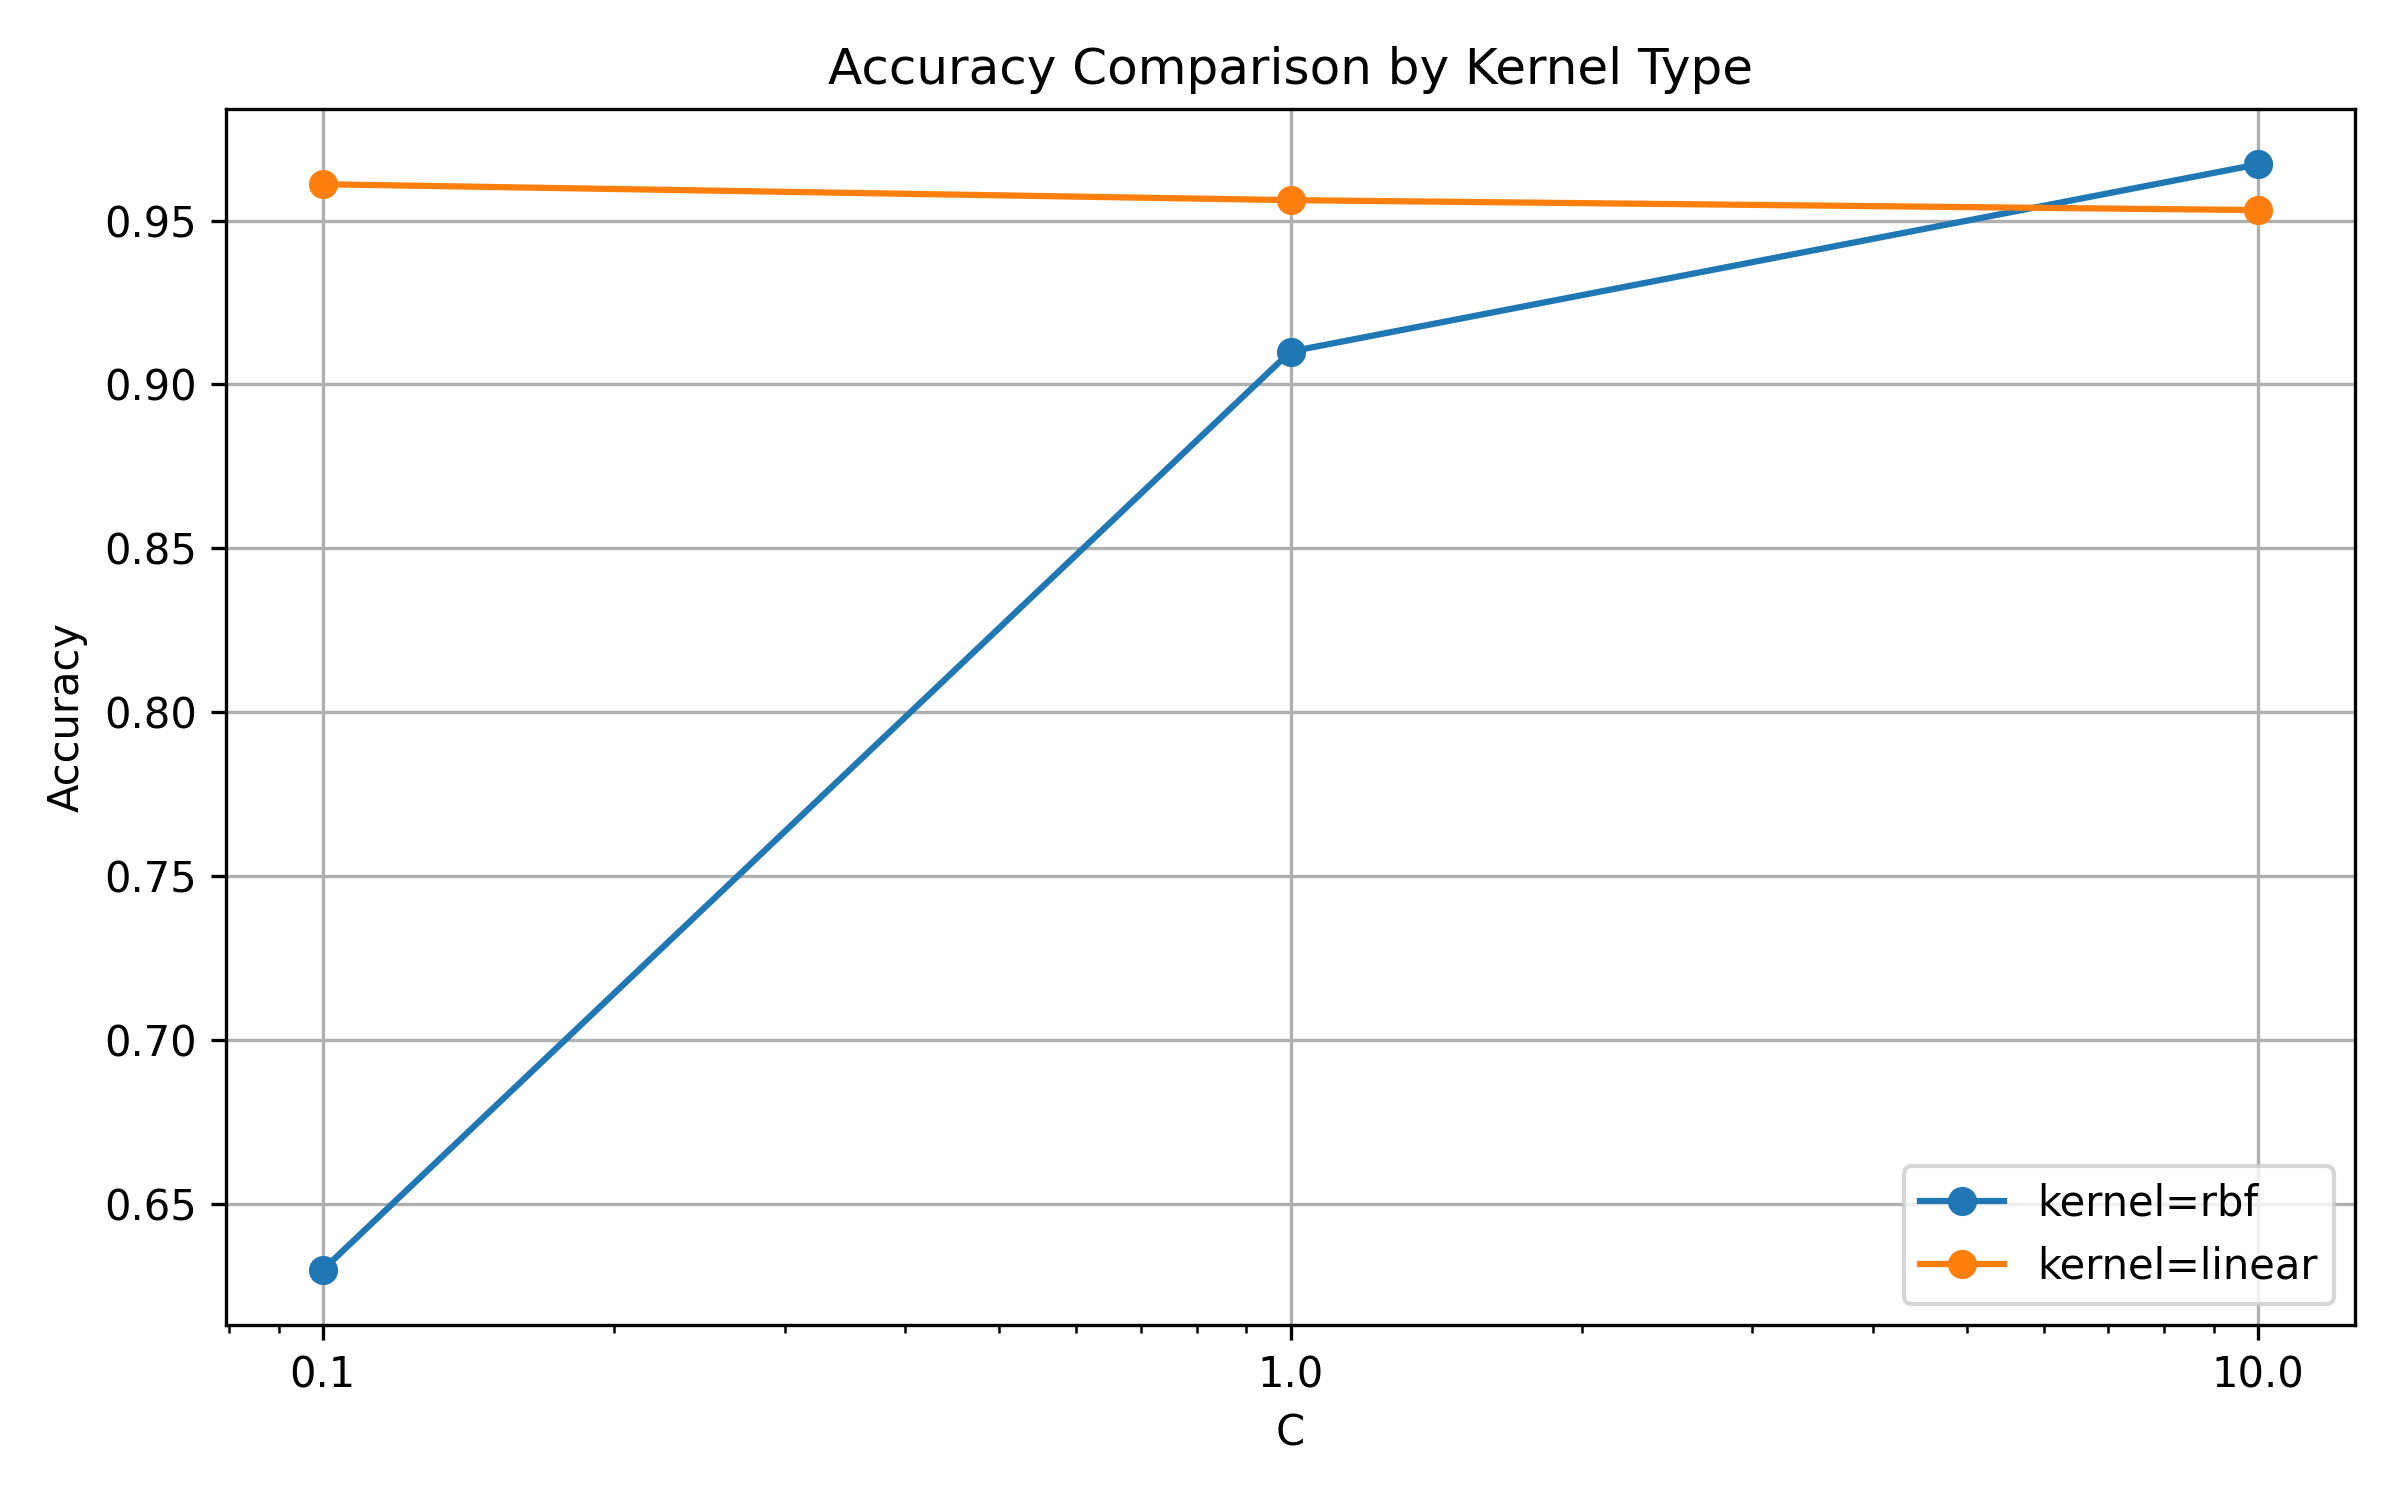
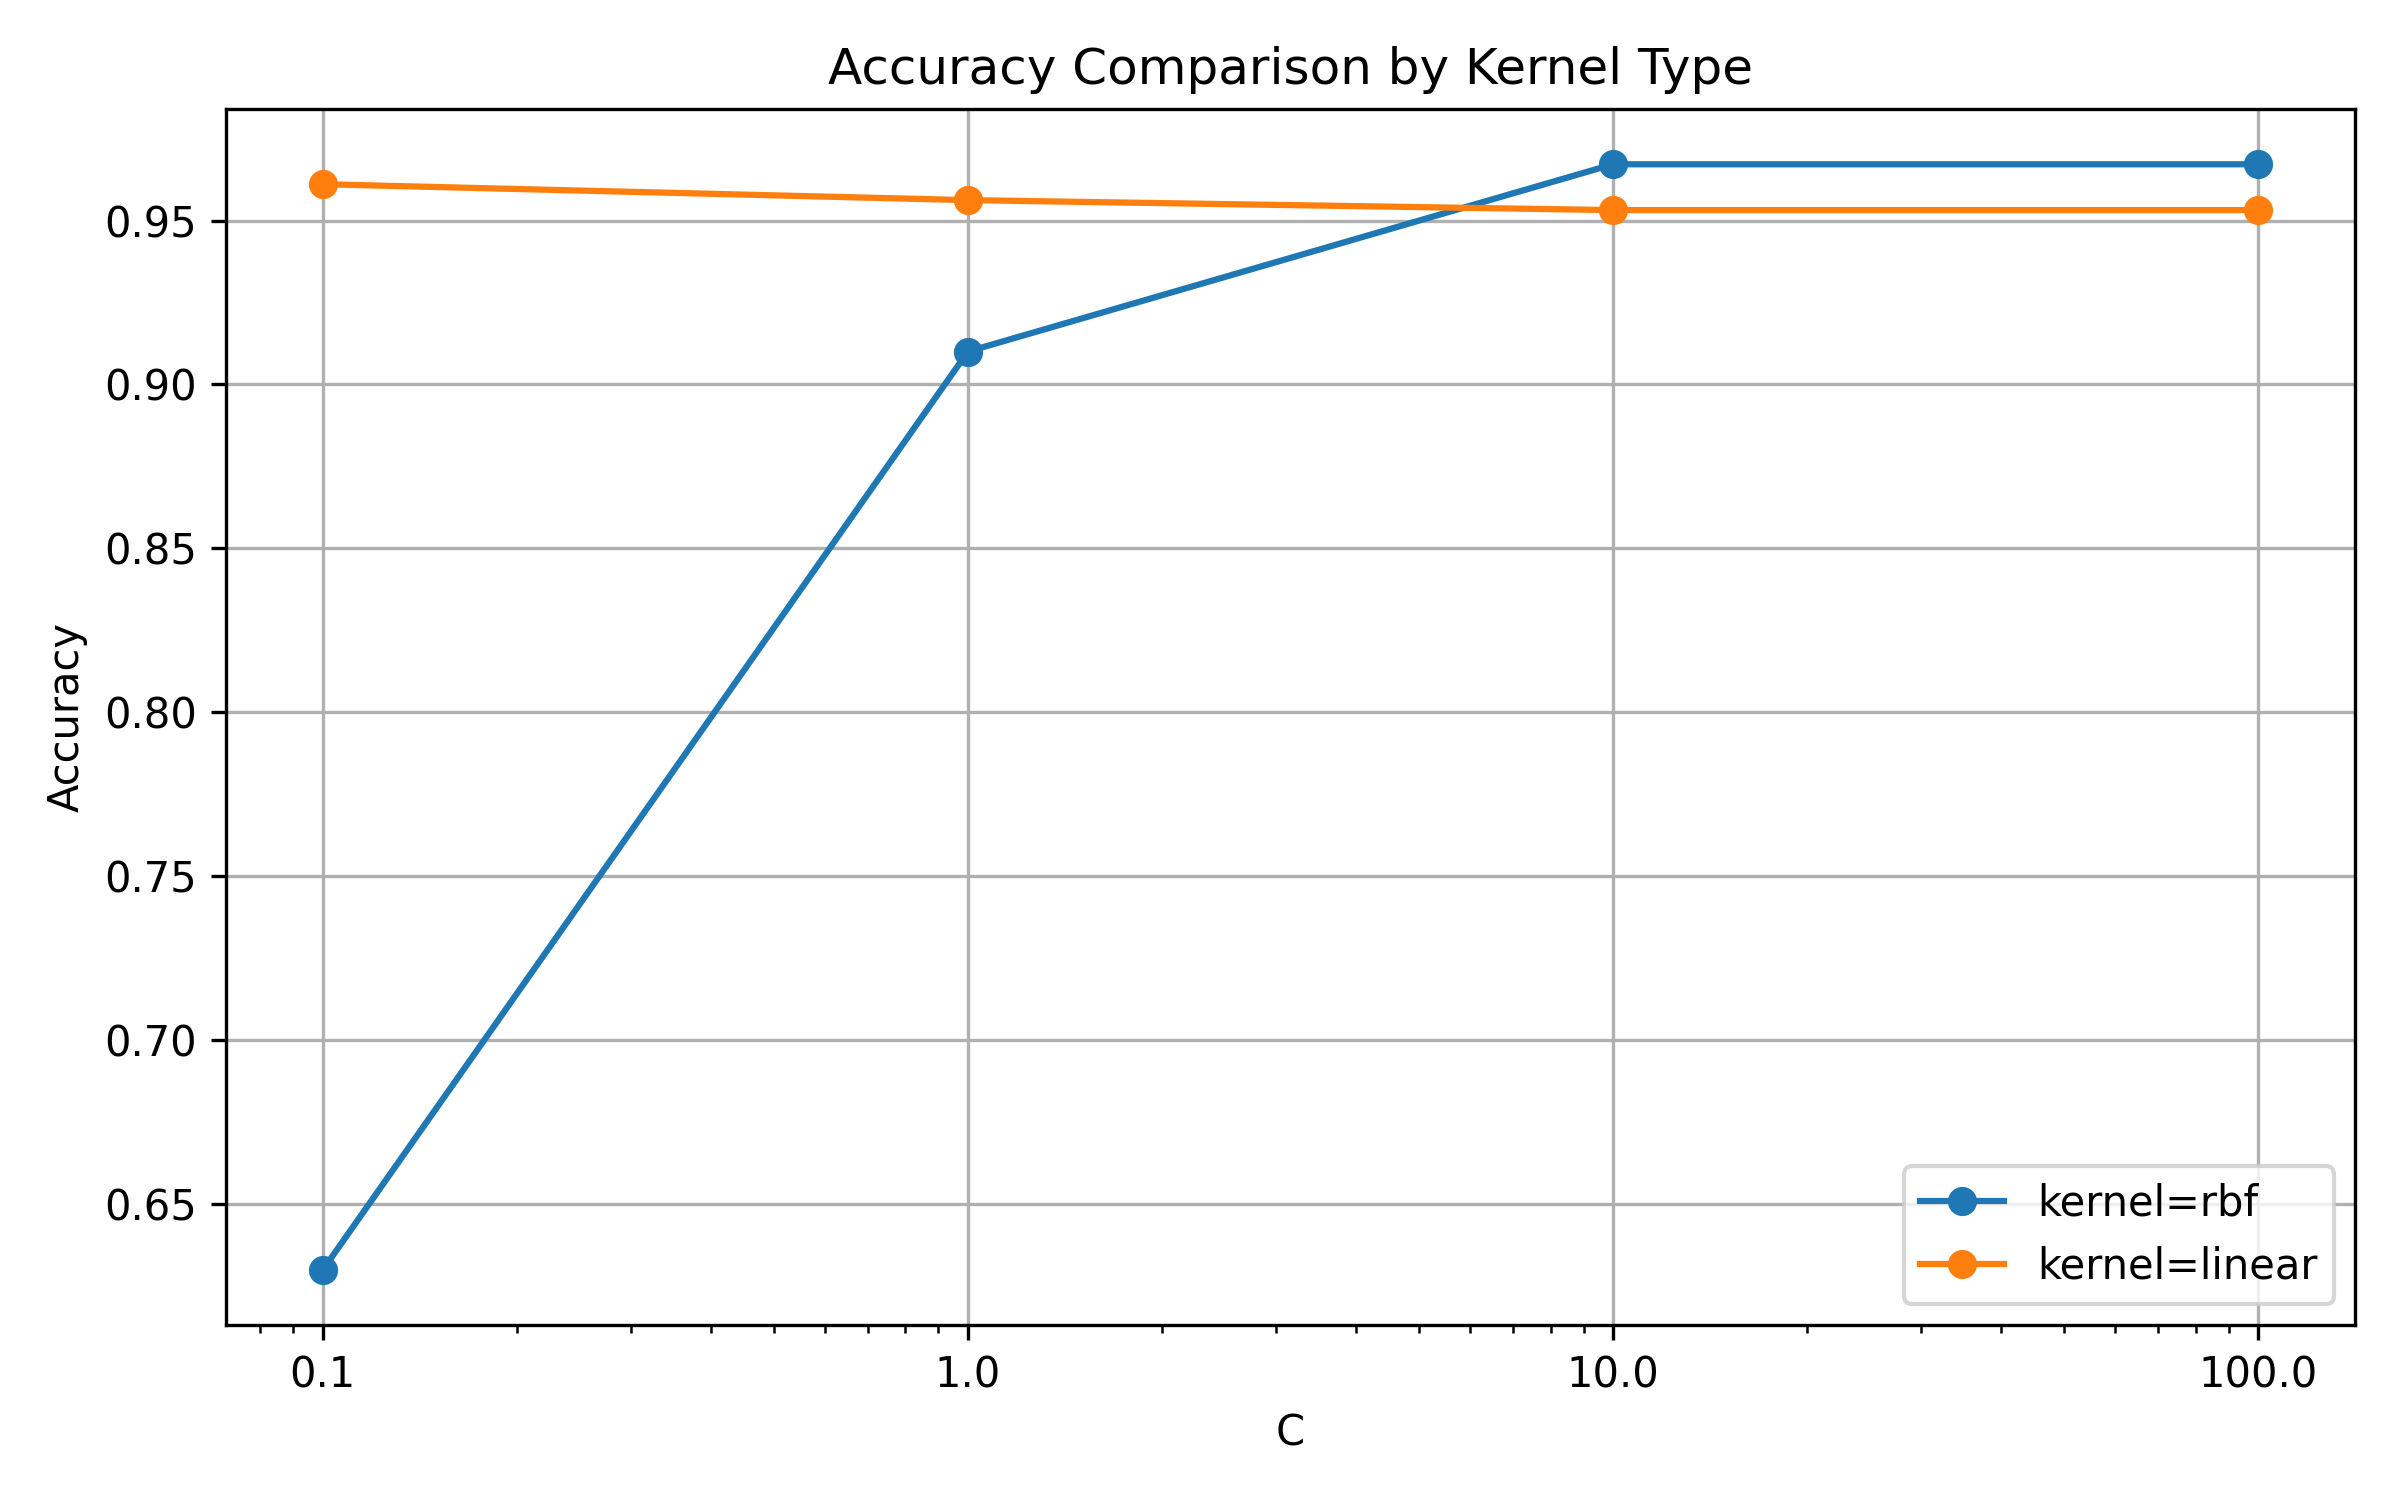
Add final English report and SVM comparison results

diff --git a/Minh_SVM/svm_compare_loop.py b/Minh_SVM/svm_compare_loop.py
@@ -60,13 +60,16 @@ for c in c_list:
 
             end = time.time()
 
+            y_pred_train = svm.predict(X_train)
             y_pred = svm.predict(X_test)
 
+            train_acc = accuracy_score(y_train, y_pred_train)
             acc = accuracy_score(y_test, y_pred)
             f1 = f1_score(y_test, y_pred, average="macro", zero_division=0)
             train_time = end - start
 
-            print("Accuracy:", acc)
+            print("Train Acc:", train_acc)
+            print("Test Acc:", acc)
             print("Macro F1:", f1)
             print("Training time:", round(train_time, 2), "seconds")
 
@@ -74,7 +77,8 @@ for c in c_list:
                 "C": c,
                 "gamma": g,
                 "kernel": k,
-                "accuracy": acc,
+                "train_accuracy": train_acc,
+                "test_accuracy": acc,
                 "macro_f1": f1,
                 "training_time": train_time
             })
@@ -86,7 +90,7 @@ df.to_csv(csv_path, index=False)
 
 print("\nSaved results to:", csv_path)
 
-best = df.sort_values(by="accuracy", ascending=False).iloc[0]
+best = df.sort_values(by="test_accuracy", ascending=False).iloc[0]
 
 print("\nBest configuration:")
 print(best)
@@ -98,11 +102,11 @@ plt.figure(figsize=(8, 5))
 
 for g in gamma_list:
     temp = df[(df["kernel"] == "rbf") & (df["gamma"] == g)]
-    plt.plot(temp["C"], temp["accuracy"], marker="o", label=f"gamma={g}")
+    plt.plot(temp["C"], temp["test_accuracy"], marker="o", label=f"gamma={g}")
 
-plt.title("Accuracy Comparison by C parameter (RBF Kernel)")
+plt.title("Test Accuracy Comparison by C parameter (RBF Kernel)")
 plt.xlabel("C")
-plt.ylabel("Accuracy")
+plt.ylabel("Test Accuracy")
 plt.xscale('log')
 plt.xticks(c_list, [str(c) for c in c_list])
 plt.legend()
@@ -123,7 +127,7 @@ plt.figure(figsize=(8, 5))
 # We fix gamma="scale" to compare kernels across C
 for k in kernel_list:
     temp = df[(df["gamma"] == "scale") & (df["kernel"] == k)]
-    plt.plot(temp["C"], temp["accuracy"], marker="o", label=f"kernel={k}")
+    plt.plot(temp["C"], temp["test_accuracy"], marker="o", label=f"kernel={k}")
 
 plt.title("Accuracy Comparison by Kernel Type")
 plt.xlabel("C")
@@ -163,3 +167,28 @@ plt.savefig(fig_path3, dpi=300)
 plt.close()
 
 print("Saved:", fig_path3)
+
+# ---------------------------------------------------------
+# Chart 4: Compare Train vs Test accuracy (Overfitting Check)
+# ---------------------------------------------------------
+plt.figure(figsize=(8, 5))
+
+# We fix gamma="scale" and kernel="rbf"
+temp = df[(df["gamma"] == "scale") & (df["kernel"] == "rbf")]
+plt.plot(temp["C"], temp["train_accuracy"], marker="o", linestyle="--", label="Train Accuracy")
+plt.plot(temp["C"], temp["test_accuracy"], marker="s", linestyle="-", label="Test Accuracy")
+
+plt.title("Train vs Test Accuracy (Overfitting Check) - RBF Kernel")
+plt.xlabel("C")
+plt.ylabel("Accuracy")
+plt.xscale('log')
+plt.xticks(c_list, [str(c) for c in c_list])
+plt.legend()
+plt.grid(True)
+plt.tight_layout()
+
+fig_path4 = os.path.join(out_dir, "overfitting_check.png")
+plt.savefig(fig_path4, dpi=300)
+plt.close()
+
+print("Saved:", fig_path4)

diff --git a/Minh_SVM/report.md b/Minh_SVM/report.md
@@ -1,0 +1,44 @@
+# Report: Applying SVM for Vietnam Traffic Sign Classification
+
+## 1. Project Overview
+This project aims to build a Machine Learning model using the **Support Vector Machine (SVM)** algorithm to recognize and classify traffic signs in Vietnam (covering 52 distinct classes).
+The implementation process consists of four main phases:
+1. **Data Preprocessing (`create_svm_dataset.py`)**: Cropped traffic signs from original images using bounding box coordinates, applying a 5% padding to retain visual context.
+2. **Feature Extraction (`prepare_svm_features.py`)**: Resized all cropped images to a standard `64x64` resolution and flattened them into a 1D vector of `12,288` features (64 * 64 * 3).
+3. **Model Training (`train_svm.py`)**: 
+   - Established a Baseline model for standard evaluation.
+   - Employed `RandomizedSearchCV` to automatically hunt for the optimal hyperparameters from a massive parameter space.
+4. **Evaluation & Visualization (`svm_compare_loop.py` & `evaluate_svm.py`)**: Conducted an in-depth analysis of 16 different configurations, plotting charts to compare accuracy and training time.
+
+## 2. Hyperparameter Fine-Tuning Insights
+Based on the exhaustive grid search results recorded in `svm_compare_results.csv`, we can draw highly valuable insights regarding SVM characteristics for image processing:
+
+### The Penalty Parameter `C` (Regularization)
+- **When `C` is too small (`C = 0.1`)**: The RBF model suffers from severe "Underfitting" (only reaching ~62.9% Test Accuracy). The model is too simplistic, resulting in decision boundaries that are not sharp enough to separate visually similar traffic signs.
+- **When `C` is moderately increased (`C = 1.0` to `10.0`)**: Accuracy skyrockets to 96.7%. This is the **sweet spot** where the model perfectly balances learning from the training data and generalizing to unseen data.
+- **When `C` is excessively large (`C = 100.0`)**: Clear signs of **Overfitting** emerge. The Train Accuracy maxes out at nearly `1.0` (100%)—meaning the model has essentially memorized the training set—yet the Test Accuracy plateaus at 96.7% without further improvement.
+
+### The `kernel` Parameter (RBF vs. Linear)
+- **Linear Kernel**: Delivers fast convergence and high initial scores (96.1% at C=0.1). However, as C increases, the Linear kernel hits a "glass ceiling" and drops to 95.3% due to rigid overfitting.
+- **RBF Kernel (Radial Basis Function)**: Demonstrates absolute superiority in flexing decision boundaries. At the optimal point (`C=10.0`, `gamma='scale'`), RBF reaches 96.7%, completely outperforming the Linear Kernel.
+
+### The `gamma` Parameter (Radius of Influence)
+- `gamma='scale'` proved to be incredibly effective and stable across all scenarios.
+- Conversely, `gamma='auto'` (which calculates `1/n_features`) is a disaster for our 12,288-dimensional image vectors. It caused the Test Accuracy to plummet to a mere `6.8%` at C=0.1, indicating that the influence radius of each data point became practically invisible, leaving the SVM completely directionless.
+
+## 3. The Final Fine-Tuned Configuration & Results
+Through rigorous `RandomizedSearchCV` iterations and manual grid comparison, we successfully identified the absolute **BEST configuration** for this dataset:
+
+*   **Kernel**: **`rbf`**
+*   **C (Regularization)**: **`10.0`** (or ~15.7 as suggested by RandomizedSearchCV)
+*   **Gamma**: **`scale`**
+*   **Class Weight**: **`balanced`** *(Crucial for handling the heavily imbalanced nature of the dataset).*
+
+**🏆 Final Performance Metrics:**
+*   **Test Accuracy: `96.72%`** *(A massive leap from the 91.0% Baseline model).*
+*   **Macro F1-Score: `95.39%`** *(Demonstrating that the model performs exceptionally well across all 52 classes, accurately classifying even the rarest traffic signs).*
+
+## 4. Conclusion & Future Work
+1. **SVM Viability**: The SVM algorithm is highly capable of tackling basic image recognition tasks (recognizing simple geometric shapes of traffic signs) when provided with accurately cropped data.
+2. **Overfitting Warning**: This project clearly illustrates that forcing a higher `C` parameter (e.g., C=100) does not yield better real-world predictions; it merely forces the model to memorize noise (Train Acc = 100%, Test Acc plateaued).
+3. **Future Enhancements**: To shatter the 96.7% accuracy ceiling, relying on raw flattened pixels is no longer sufficient. Future developments should pivot toward advanced feature extraction techniques like **HOG (Histogram of Oriented Gradients)** or adopt **Convolutional Neural Networks (CNNs)** to effectively capture spatial image hierarchies.